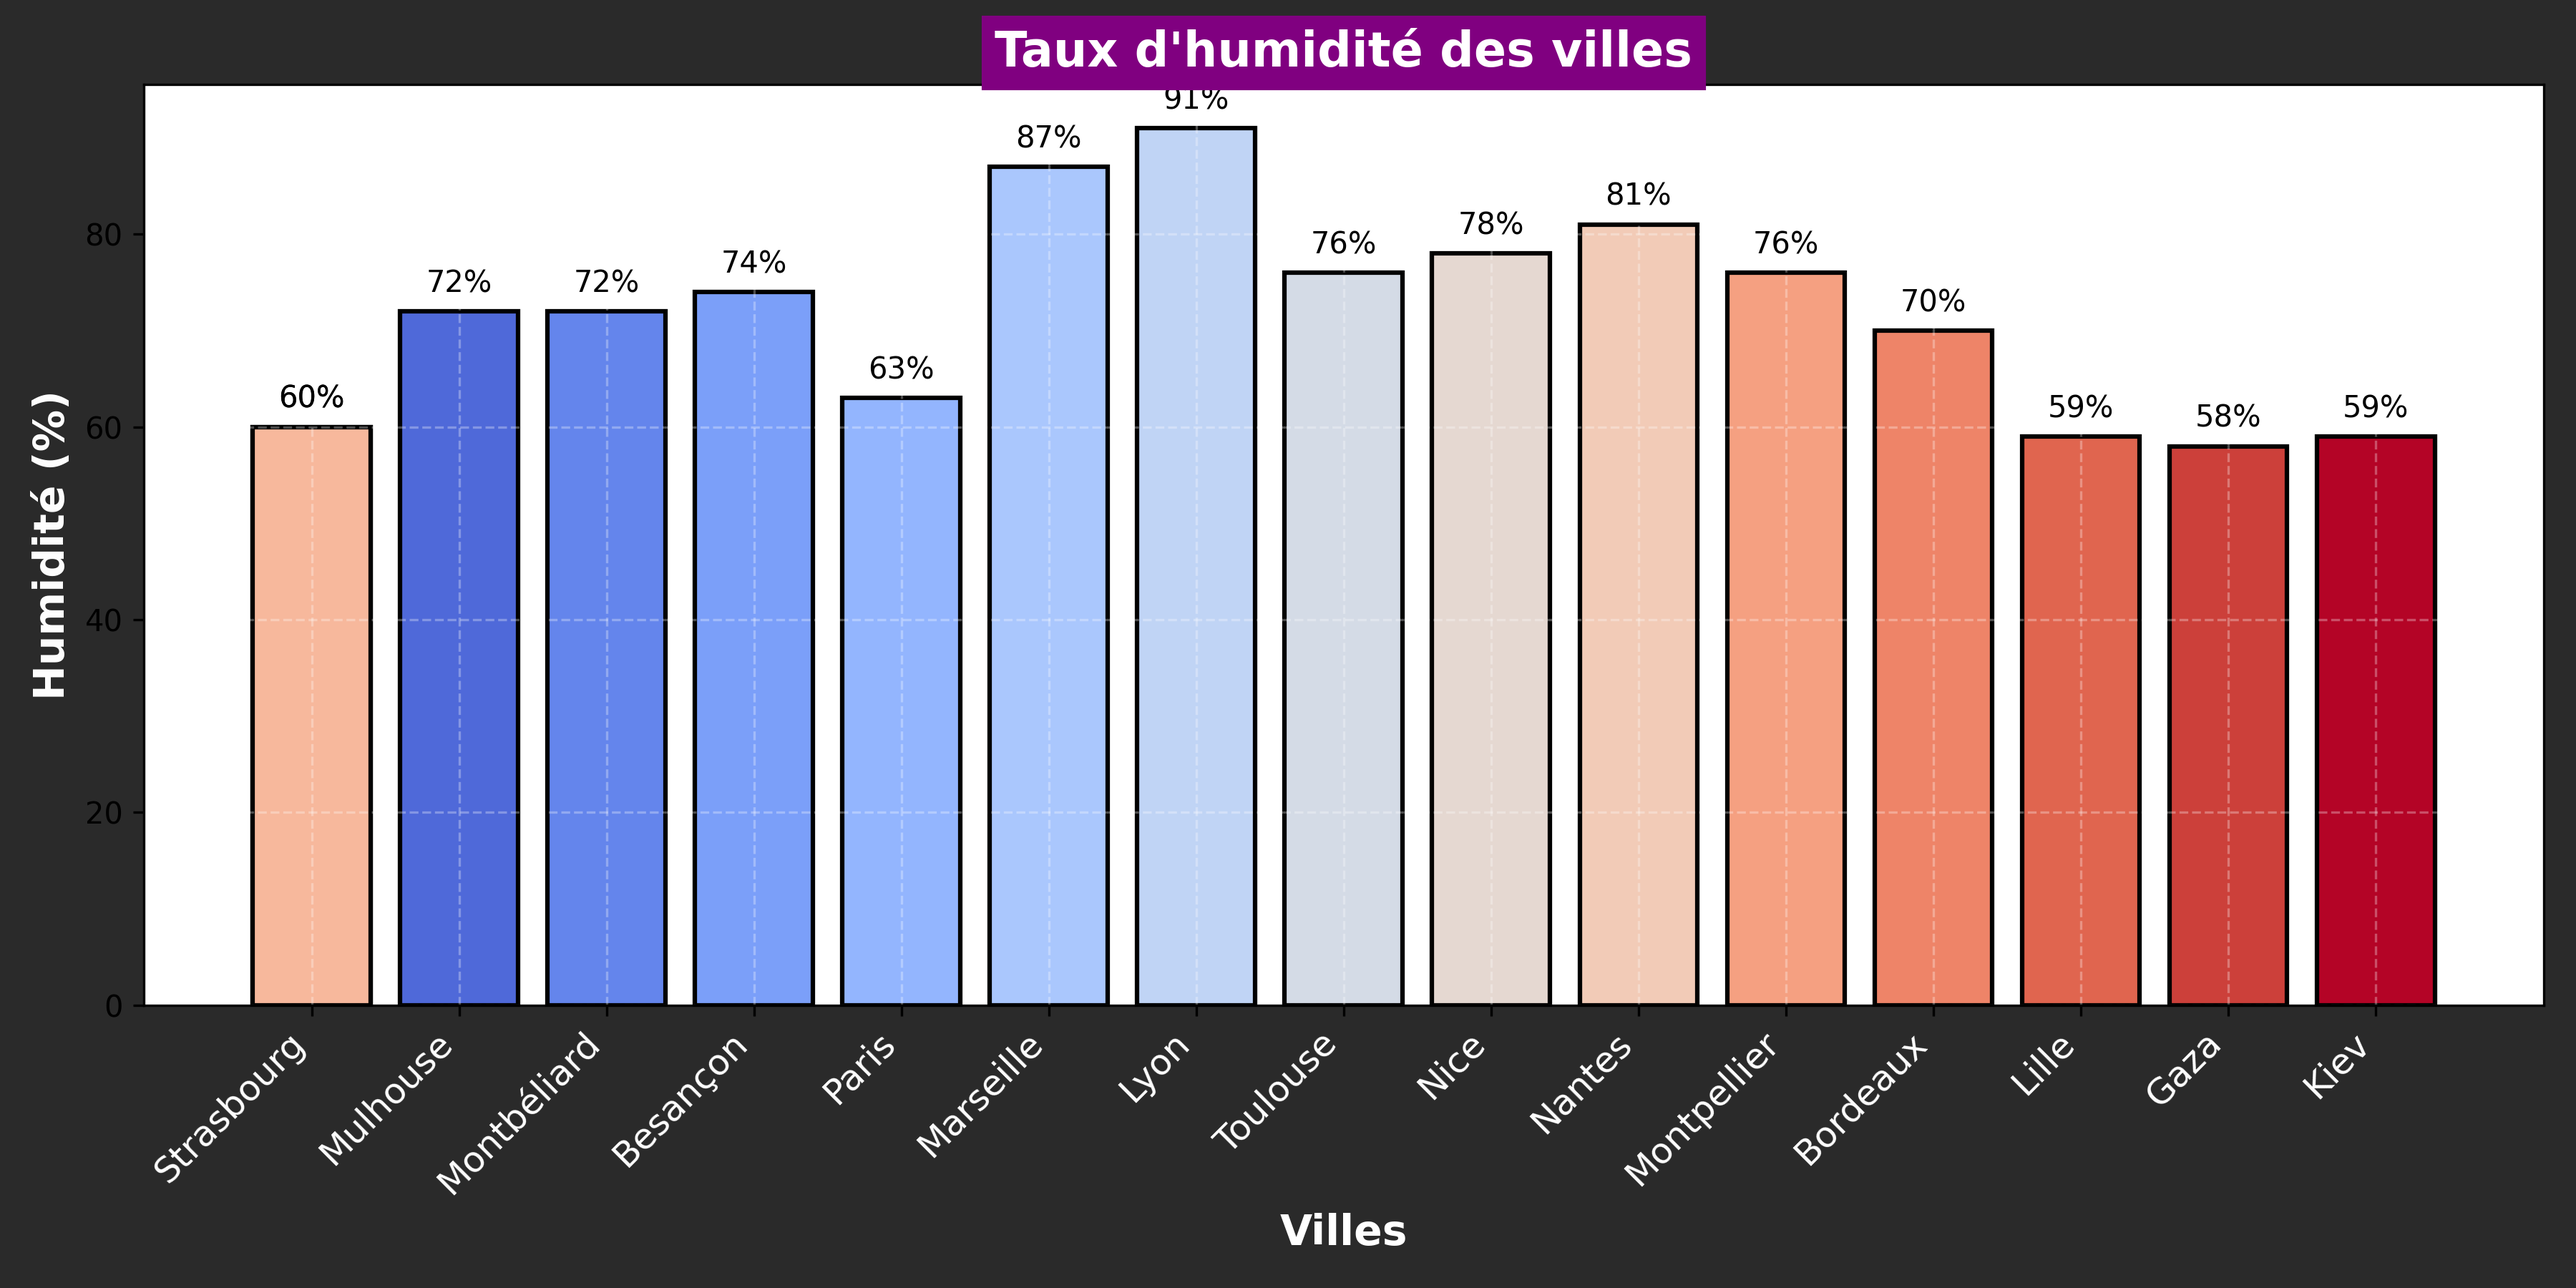
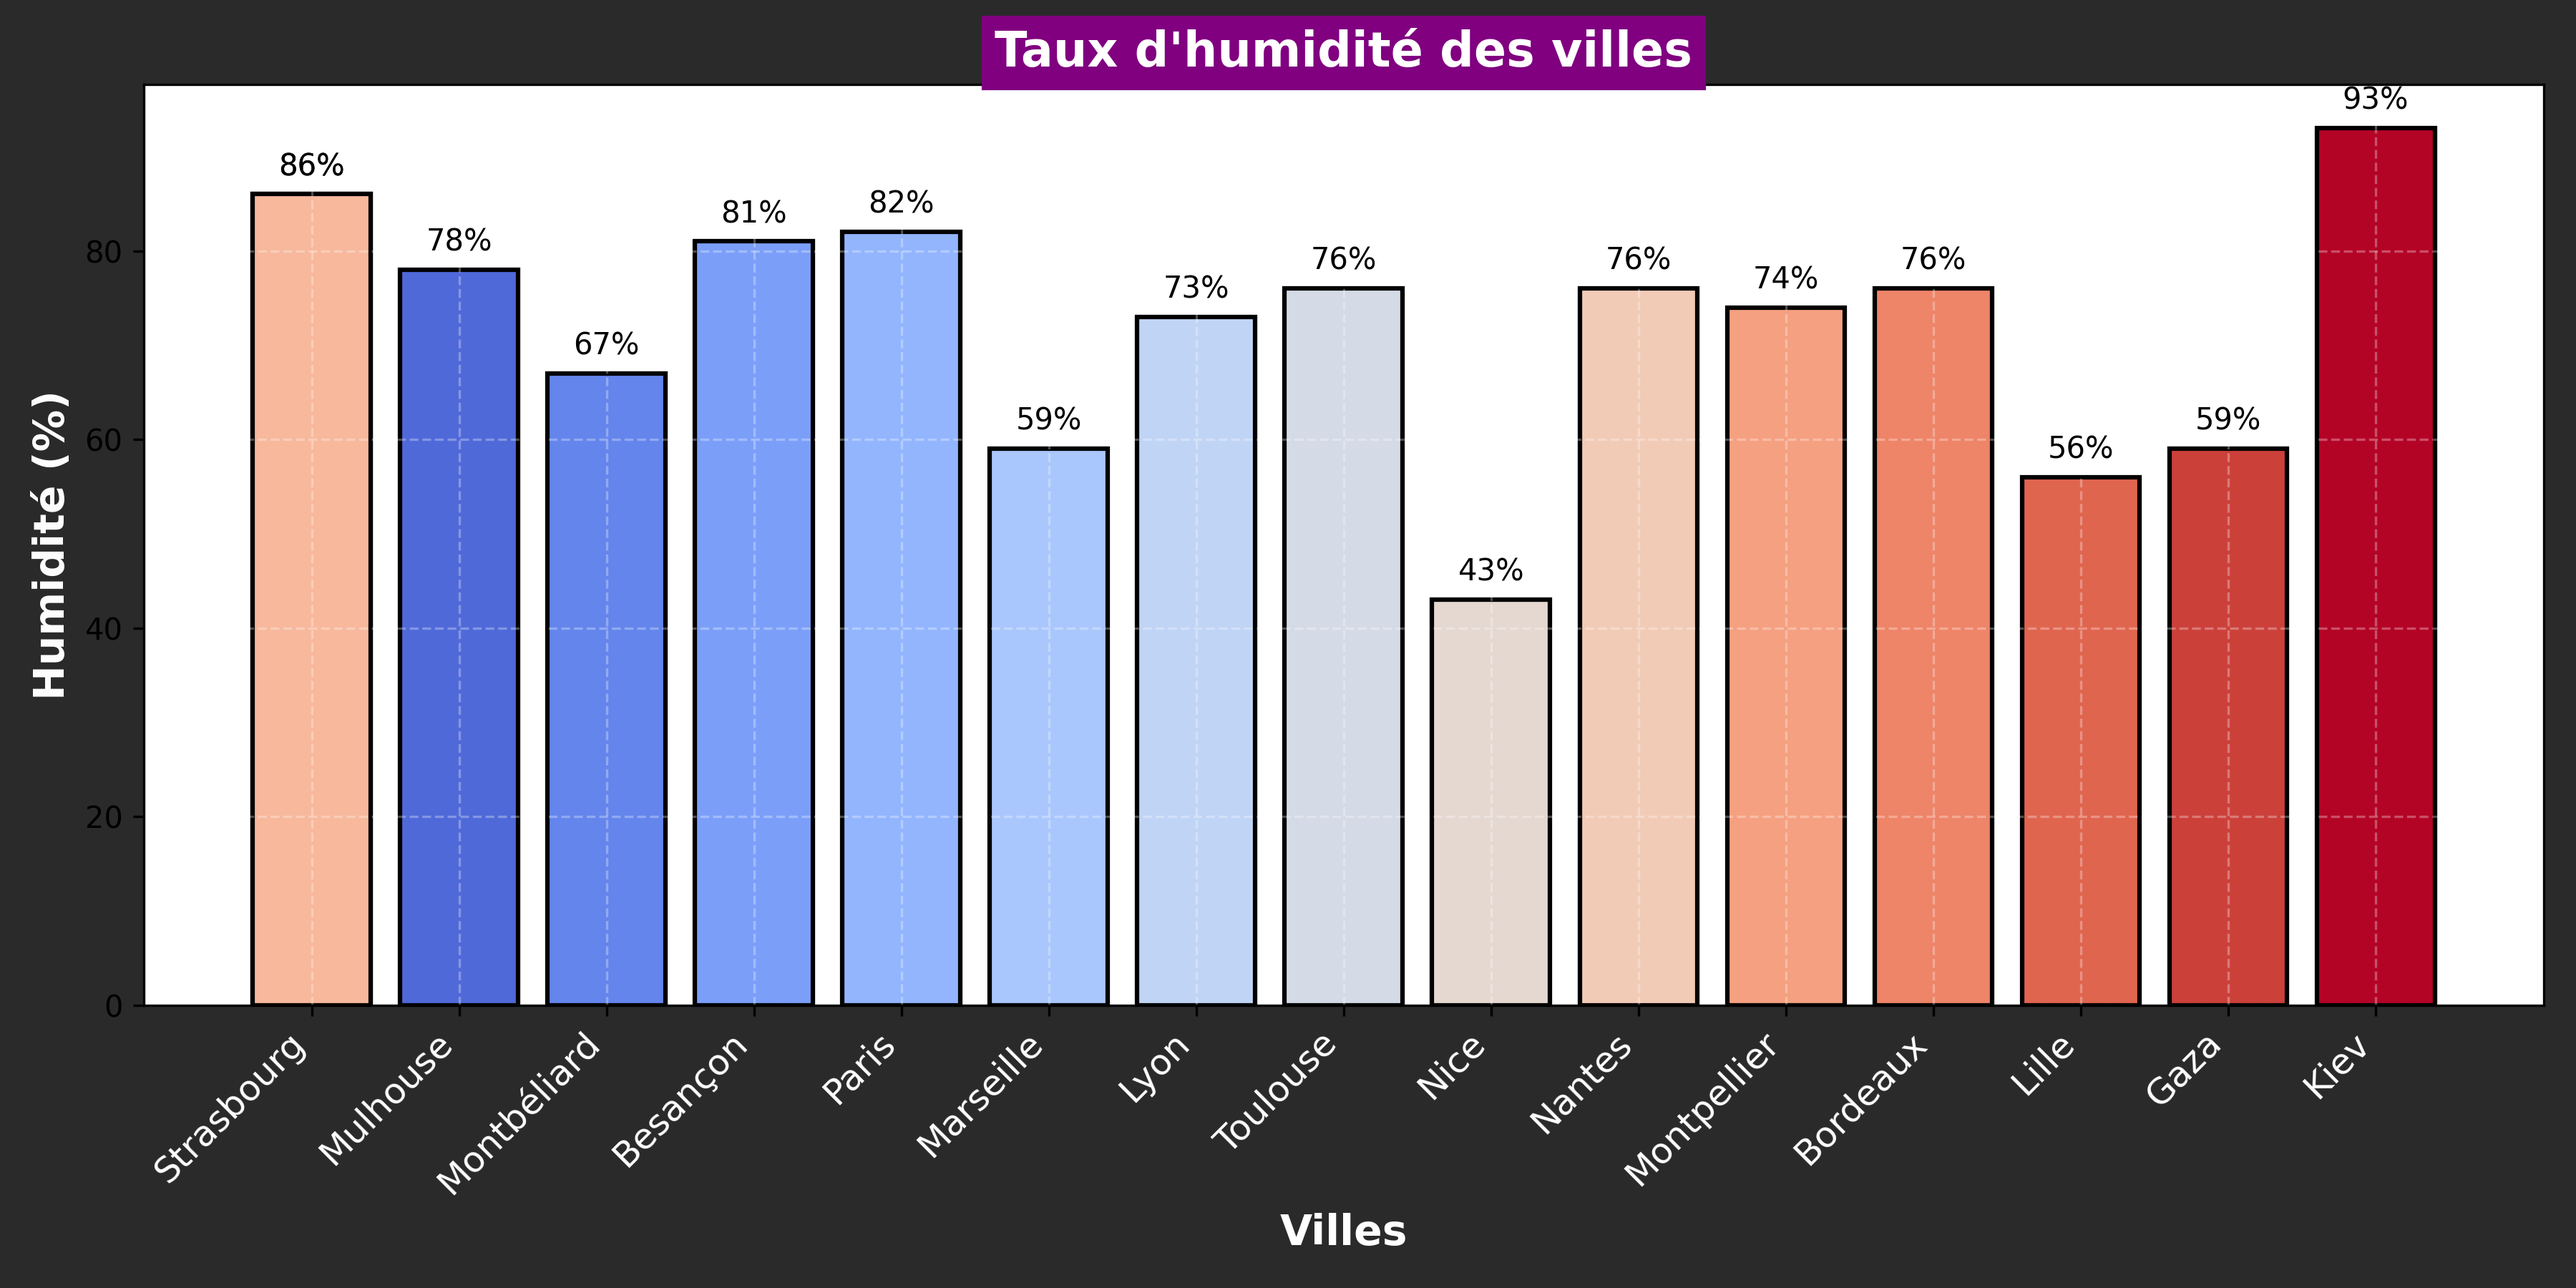
Mise à jour de la météo et ajout du graphique d'humidité

diff --git a/README.md b/README.md
@@ -24,103 +24,103 @@ Ce repo contient plusieurs workflows GitHub Actions :
 ## Météo actuelle :
 ## Météo des grandes villes + Gaza et Kiev 🌍
 
-🕒 Mise à jour : 18/03/2025 07:47:09
+🕒 Mise à jour : 19/03/2025 07:47:55
 
 ### 🌍 Strasbourg ☀
 **Conditions :** ciel dégagé
-**Température :** 1.01°C
-**Humidité :** 60%
-**Vent :** 4.12 m/s
+**Température :** -0.99°C
+**Humidité :** 86%
+**Vent :** 0.51 m/s
 
-### 🌍 Mulhouse 🌥
-**Conditions :** peu nuageux
-**Température :** 0.14°C
-**Humidité :** 72%
-**Vent :** 2.06 m/s
+### 🌍 Mulhouse ☀
+**Conditions :** ciel dégagé
+**Température :** 1.6°C
+**Humidité :** 78%
+**Vent :** 2.57 m/s
 
 ### 🌍 Montbéliard ☀
 **Conditions :** ciel dégagé
-**Température :** 1.1°C
-**Humidité :** 72%
-**Vent :** 5.94 m/s
+**Température :** 5.54°C
+**Humidité :** 67%
+**Vent :** 1.15 m/s
 
 ### 🌍 Besançon ☀
 **Conditions :** ciel dégagé
-**Température :** 0.56°C
-**Humidité :** 74%
-**Vent :** 1.52 m/s
+**Température :** 2.72°C
+**Humidité :** 81%
+**Vent :** 1.03 m/s
 
 ### 🌍 Paris ☀
 **Conditions :** ciel dégagé
-**Température :** 2.32°C
-**Humidité :** 63%
-**Vent :** 5.66 m/s
+**Température :** 6.42°C
+**Humidité :** 82%
+**Vent :** 3.6 m/s
 
-### 🌍 Marseille ☀
-**Conditions :** ciel dégagé
-**Température :** 5.61°C
-**Humidité :** 87%
-**Vent :** 3.38 m/s
+### 🌍 Marseille 🌥
+**Conditions :** nuageux
+**Température :** 7.4°C
+**Humidité :** 59%
+**Vent :** 3.13 m/s
 
 ### 🌍 Lyon ☀
 **Conditions :** ciel dégagé
-**Température :** -1.15°C
-**Humidité :** 91%
-**Vent :** 0.83 m/s
+**Température :** 4.59°C
+**Humidité :** 73%
+**Vent :** 1.35 m/s
 
-### 🌍 Toulouse ☀
-**Conditions :** ciel dégagé
-**Température :** 6.99°C
-**Humidité :** 76%
-**Vent :** 6.17 m/s
-
-### 🌍 Nice 🌥
+### 🌍 Toulouse 🌥
 **Conditions :** peu nuageux
-**Température :** 3.61°C
-**Humidité :** 78%
-**Vent :** 1.58 m/s
+**Température :** 10.99°C
+**Humidité :** 76%
+**Vent :** 10.29 m/s
+
+### 🌍 Nice ☀
+**Conditions :** ciel dégagé
+**Température :** 1.39°C
+**Humidité :** 43%
+**Vent :** 2 m/s
 
 ### 🌍 Nantes ☀
 **Conditions :** ciel dégagé
-**Température :** 3.96°C
-**Humidité :** 81%
-**Vent :** 5.14 m/s
+**Température :** 9.96°C
+**Humidité :** 76%
+**Vent :** 3.6 m/s
 
 ### 🌍 Strasbourg ☀
 **Conditions :** ciel dégagé
-**Température :** 1.01°C
-**Humidité :** 60%
-**Vent :** 4.12 m/s
+**Température :** -0.99°C
+**Humidité :** 86%
+**Vent :** 0.51 m/s
 
 ### 🌍 Montpellier 🌥
-**Conditions :** nuageux
-**Température :** 6.94°C
-**Humidité :** 76%
-**Vent :** 3.09 m/s
+**Conditions :** couvert
+**Température :** 8.61°C
+**Humidité :** 74%
+**Vent :** 4.12 m/s
 
 ### 🌍 Bordeaux ☀
 **Conditions :** ciel dégagé
-**Température :** 5.15°C
-**Humidité :** 70%
-**Vent :** 2.57 m/s
+**Température :** 11.15°C
+**Humidité :** 76%
+**Vent :** 6.17 m/s
 
 ### 🌍 Lille ☀
 **Conditions :** ciel dégagé
-**Température :** 0.22°C
-**Humidité :** 59%
-**Vent :** 4.12 m/s
+**Température :** 3.31°C
+**Humidité :** 56%
+**Vent :** 3.09 m/s
 
-### 🌍 Gaza 🌥
-**Conditions :** peu nuageux
-**Température :** 22.33°C
-**Humidité :** 58%
-**Vent :** 3.39 m/s
-
-### 🌍 Kiev ☀
+### 🌍 Gaza ☀
 **Conditions :** ciel dégagé
-**Température :** -0.71°C
+**Température :** 18.46°C
 **Humidité :** 59%
-**Vent :** 0.89 m/s
+**Vent :** 4.32 m/s
+
+### 🌍 Kiev 🌥
+**Conditions :** couvert
+**Température :** 2.07°C
+**Humidité :** 93%
+**Vent :** 3.13 m/s
 
 <p align='center'><img src='https://raw.githubusercontent.com/khoa083/khoa/main/Khoa_ne/img/Rainbow.gif' width='100%' style='border-radius: 5px; border: 3px solid #39FF14; box-shadow: 0 0 10px #39FF14, 0 0 20px #39FF14;' /></p>
 
